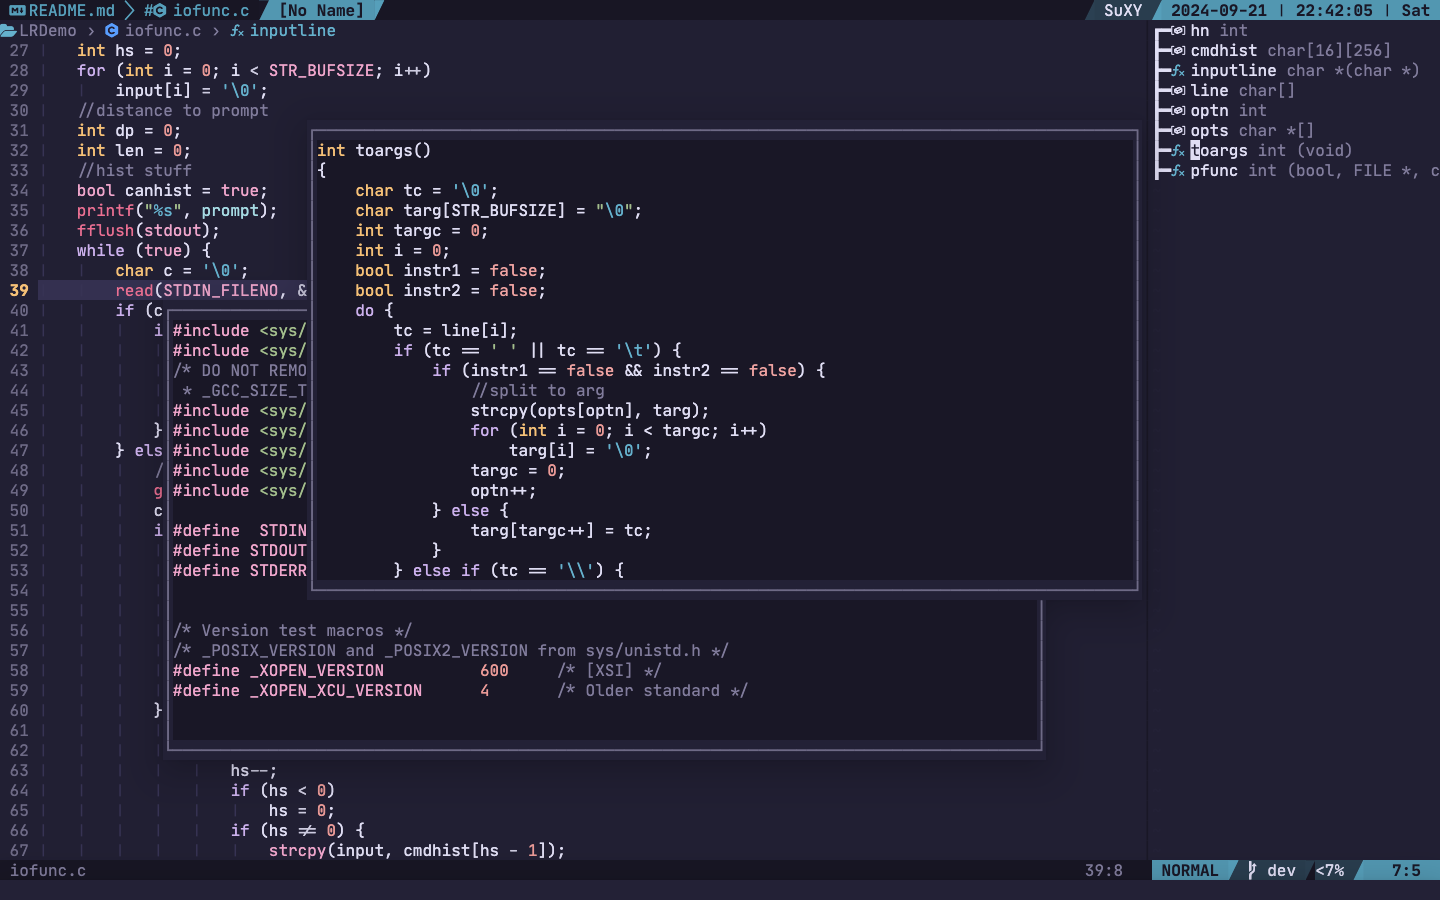
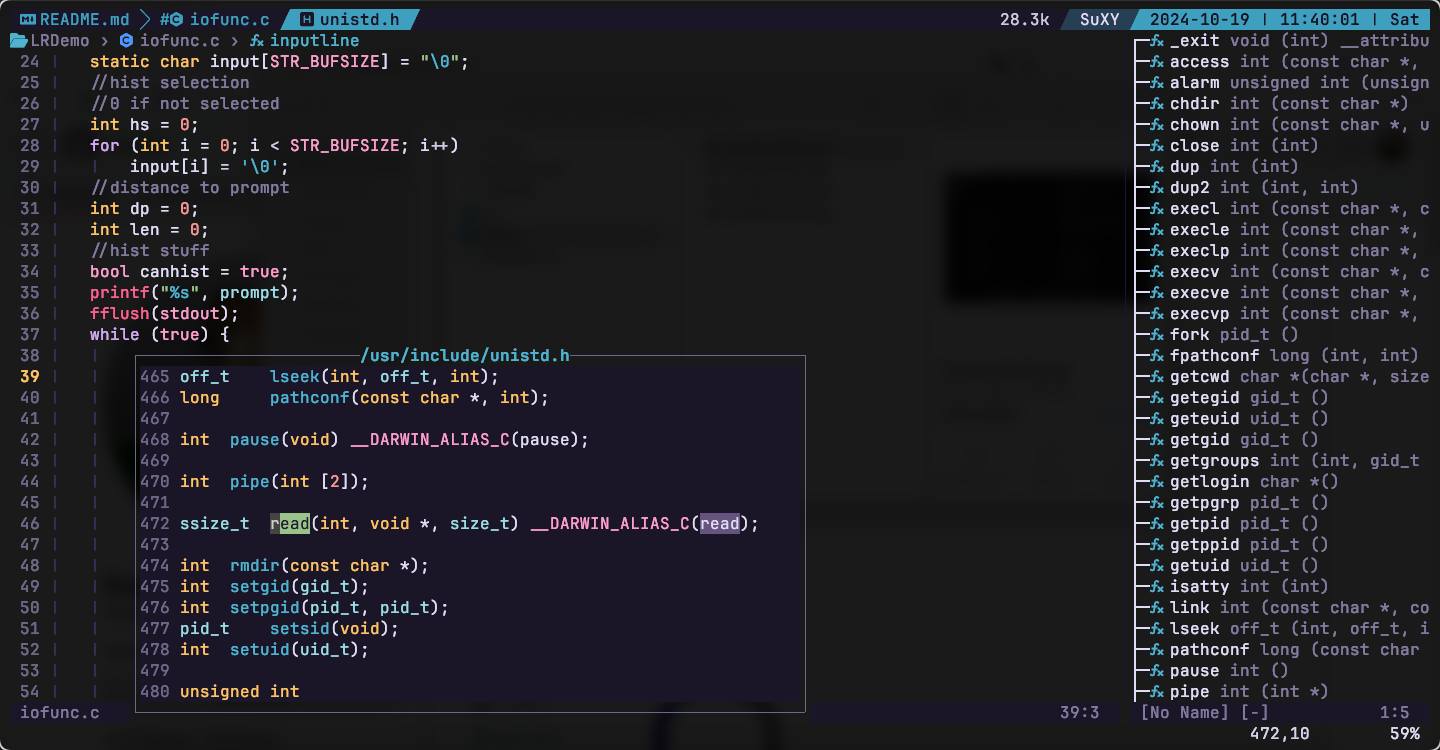
Add transparent plugin, update screenshots.

diff --git a/README.md b/README.md
@@ -18,7 +18,7 @@ _SuXYIO_'s __Neovim__ config.
 > Editing `Lua` with _lazygit_ window on, _kanagawa-dragon_ colorscheme. 
 ![Screenshot2](./media/Screenshot2.png)
 
-> Editing `C` with _code diagnostic_ on, _carbonfox_ colorscheme. 
+> Editing `C` with _code diagnostic_ on, _ayu-dark_ colorscheme. 
 ![Screenshot3](./media/Screenshot3.png)
 
 </details>
@@ -49,6 +49,7 @@ Manager: __[Lazy.nvim](https://github.com/folke/lazy.nvim)__
 | [NvimTree](https://github.com/nvim-tree/nvim-tree.lua) | Provide __tree__ view |
 | [Telescope](https://github.com/nvim-telescope/telescope.nvim) | __Find__ files |
 | [TodoComments](https://github.com/folke/todo-comments.nvim) | Highlight __todo__ comments |
+| [Transparent](https://github.com/xiyaowong/transparent.nvim) | __Transparent__ background |
 | [Wilder](https://github.com/gelguy/wilder.nvim) | Provide __cmdline completion__ |
 
 </details>
